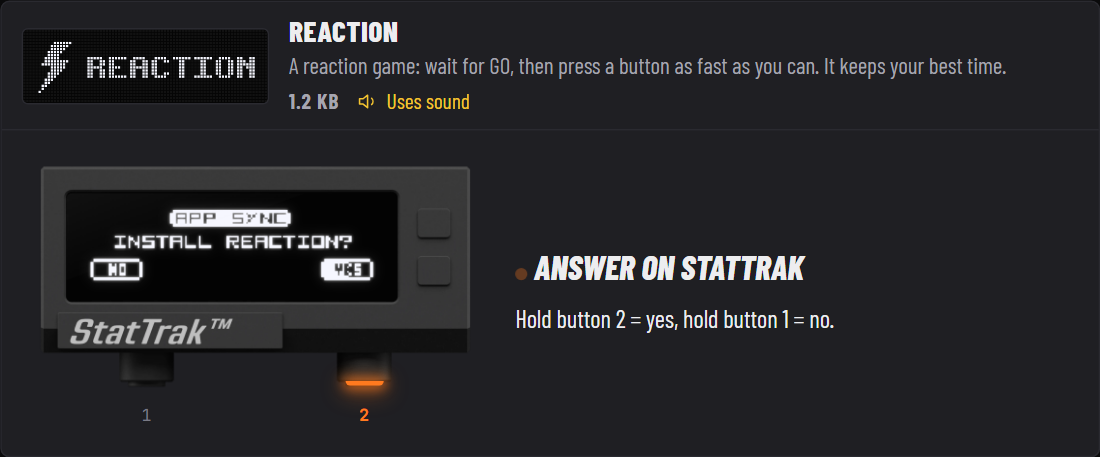
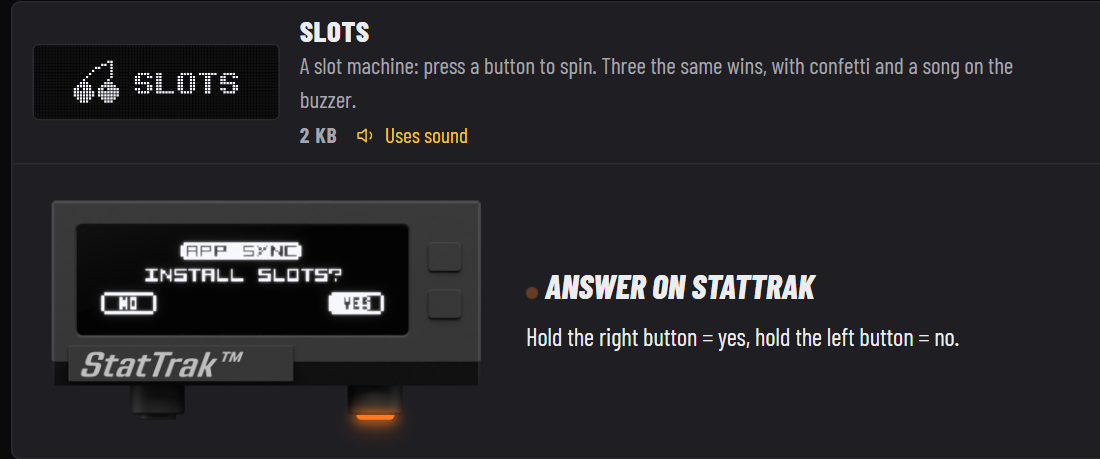
Web simulator links the page again when shell.html changes (Sol S1); install pictures with SLOTS (Sol S2)

diff --git a/updater/start/index.html b/updater/start/index.html
@@ -219,8 +219,8 @@ I may not be a programmer. Use plain words.</pre>
               <li><b>Answer on the StatTrak.</b> It asks <code>INSTALL &lt;NAME&gt;?</code>. Hold the right button for yes, or the left button for no.</li>
             </ol>
             <div class="pair">
-              <img src="img/apps-ask.png" width="1100" height="457" loading="lazy" alt="The page shows the question on the device: INSTALL REACTION?" />
-              <img src="img/apps-done.png" width="1100" height="426" loading="lazy" alt="Installed: SYNC MORE or OPEN on the device" />
+              <img src="img/apps-ask.png" width="1100" height="459" loading="lazy" alt="The page shows the question on the device: INSTALL SLOTS?" />
+              <img src="img/apps-done.png" width="1100" height="396" loading="lazy" alt="Installed: SYNC MORE or OPEN on the device" />
             </div>
             <p>On <a href="../index.html#device">My device</a> you can move, hide and delete apps, change their settings, and give your StatTrak its own
               Bluetooth name (for example <code>StatTrak | SSG10</code>). The new name starts the next time you open <code>Apps: SYNC</code>.</p>

diff --git a/docs/ROADMAP.md b/docs/ROADMAP.md
@@ -60,9 +60,8 @@ simulator cannot test.
   add (only **From file**), and "Update available" comes only from the app store. The apps in
   `updater/apps/` stay in the repository as test apps (tests, the local simulator). The web
   simulator of the web site has no test apps in its panel (`tools/websim.py`,
-  `build(panel_apps=False)`). The changelog of 2.0.0 names only apps of the store.
-  Not done: the pictures of an install on Get started and in docs/GUIDE.md still show the test
-  app REACTION.
+  `build(panel_apps=False)`). The changelog of 2.0.0 and the install pictures (Get started,
+  docs/GUIDE.md) show only apps of the store.
 
 - **2026-11-27: firmware 2.0.0, the first public release, and this repository is public.**
   Version 2.0.0 is the code of 1.2.1-b1 (the betas 1.2.0-b1 to 1.2.1-b1 are hidden now). What

diff --git a/docs/GUIDE.md b/docs/GUIDE.md
@@ -101,7 +101,7 @@ Bluetooth or the power.
 
 <table>
   <tr>
-    <td width="50%"><img src="images/apps-ask.png" alt="The page shows the question on the device: INSTALL REACTION?"></td>
+    <td width="50%"><img src="images/apps-ask.png" alt="The page shows the question on the device: INSTALL SLOTS?"></td>
     <td width="50%"><img src="images/apps-done.png" alt="Installed: SYNC MORE or OPEN on the device"></td>
   </tr>
   <tr>
